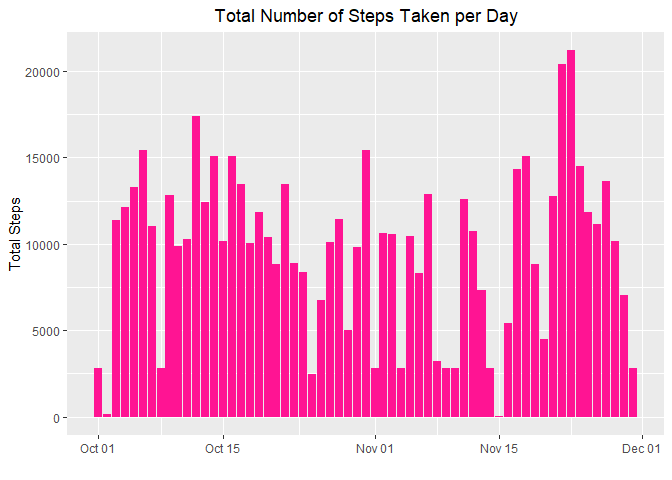
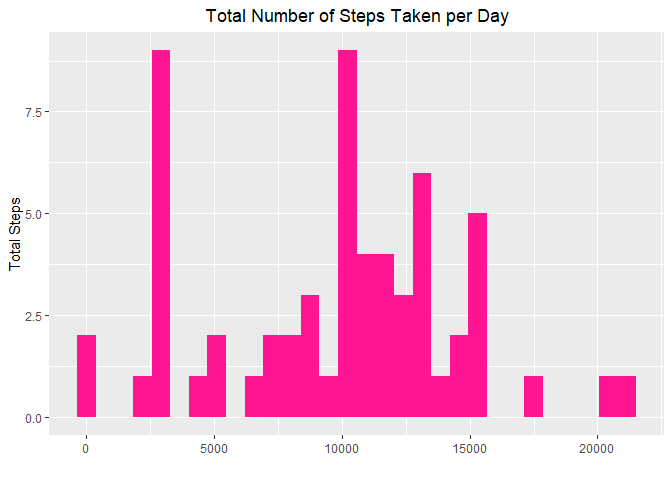
final submission

diff --git a/PA1_template.html b/PA1_template.html
@@ -385,12 +385,12 @@ So, we need to convert <code>acitiviy$date</code> into
 <h2>What is mean total number of steps taken per day?</h2>
 <pre class="r"><code>total_steps_per_day &lt;- group_by(activity,date) %&gt;%
                        summarise(total_steps=sum(steps,na.rm = TRUE))
-g_tot &lt;- ggplot(total_steps_per_day,aes(x=date,y=total_steps))
+g_tot &lt;- ggplot(total_steps_per_day,aes(x=total_steps))
 g_tot + 
-  geom_col(fill=&quot;deeppink&quot;) + 
+  geom_histogram(fill=&quot;deeppink&quot;) + 
   labs(title= &quot;Total Number of Steps Taken per Day&quot;,x=&quot;&quot;,y=&quot;Total Steps&quot;)+
   theme(plot.title = element_text(hjust=0.5))</code></pre>
[2 lines of base64/hex data omitted]
 <div id="mean-steps-per-day" class="section level4">
 <h4>Mean Steps per Day</h4>
 <pre class="r"><code>mean_steps_per_day &lt;- mean(total_steps_per_day$total_steps,na.rm = T)
@@ -438,12 +438,12 @@ dataset is assigned to new variable <code>activity_imp</code>.</p>
 
 total_imp &lt;- group_by(activity_imp,date) %&gt;%
                       summarise(total_steps=sum(steps,na.rm = TRUE))
-g_tot_imp &lt;- ggplot(total_imp,aes(x=date,y=total_steps))
+g_tot_imp &lt;- ggplot(total_imp,aes(x=total_steps))
 g_tot_imp + 
-  geom_col(fill=&quot;deeppink&quot;) + 
+  geom_histogram(fill=&quot;deeppink&quot;) + 
   labs(title= &quot;Total Number of Steps Taken per Day&quot;,x=&quot;&quot;,y=&quot;Total Steps&quot;)+
   theme(plot.title = element_text(hjust=0.5))</code></pre>
[2 lines of base64/hex data omitted]
 <p>From the title we can see that some of the days had missing values
 and in turn missing columns but after imputation those columns has been
 filled with values.</p>

diff --git a/PA1_template.md b/PA1_template.md
@@ -61,9 +61,9 @@ Now we can use this data for our analysis properly.
 ``` r
 total_steps_per_day <- group_by(activity,date) %>%
                        summarise(total_steps=sum(steps,na.rm = TRUE))
-g_tot <- ggplot(total_steps_per_day,aes(x=date,y=total_steps))
+g_tot <- ggplot(total_steps_per_day,aes(x=total_steps))
 g_tot + 
-  geom_col(fill="deeppink") + 
+  geom_histogram(fill="deeppink") + 
   labs(title= "Total Number of Steps Taken per Day",x="",y="Total Steps")+
   theme(plot.title = element_text(hjust=0.5))
 ```
@@ -149,9 +149,9 @@ activity_imp <- kNN(activity,variable = c("steps"),k=6,imp_var = F)
 
 total_imp <- group_by(activity_imp,date) %>%
                       summarise(total_steps=sum(steps,na.rm = TRUE))
-g_tot_imp <- ggplot(total_imp,aes(x=date,y=total_steps))
+g_tot_imp <- ggplot(total_imp,aes(x=total_steps))
 g_tot_imp + 
-  geom_col(fill="deeppink") + 
+  geom_histogram(fill="deeppink") + 
   labs(title= "Total Number of Steps Taken per Day",x="",y="Total Steps")+
   theme(plot.title = element_text(hjust=0.5))
 ```
